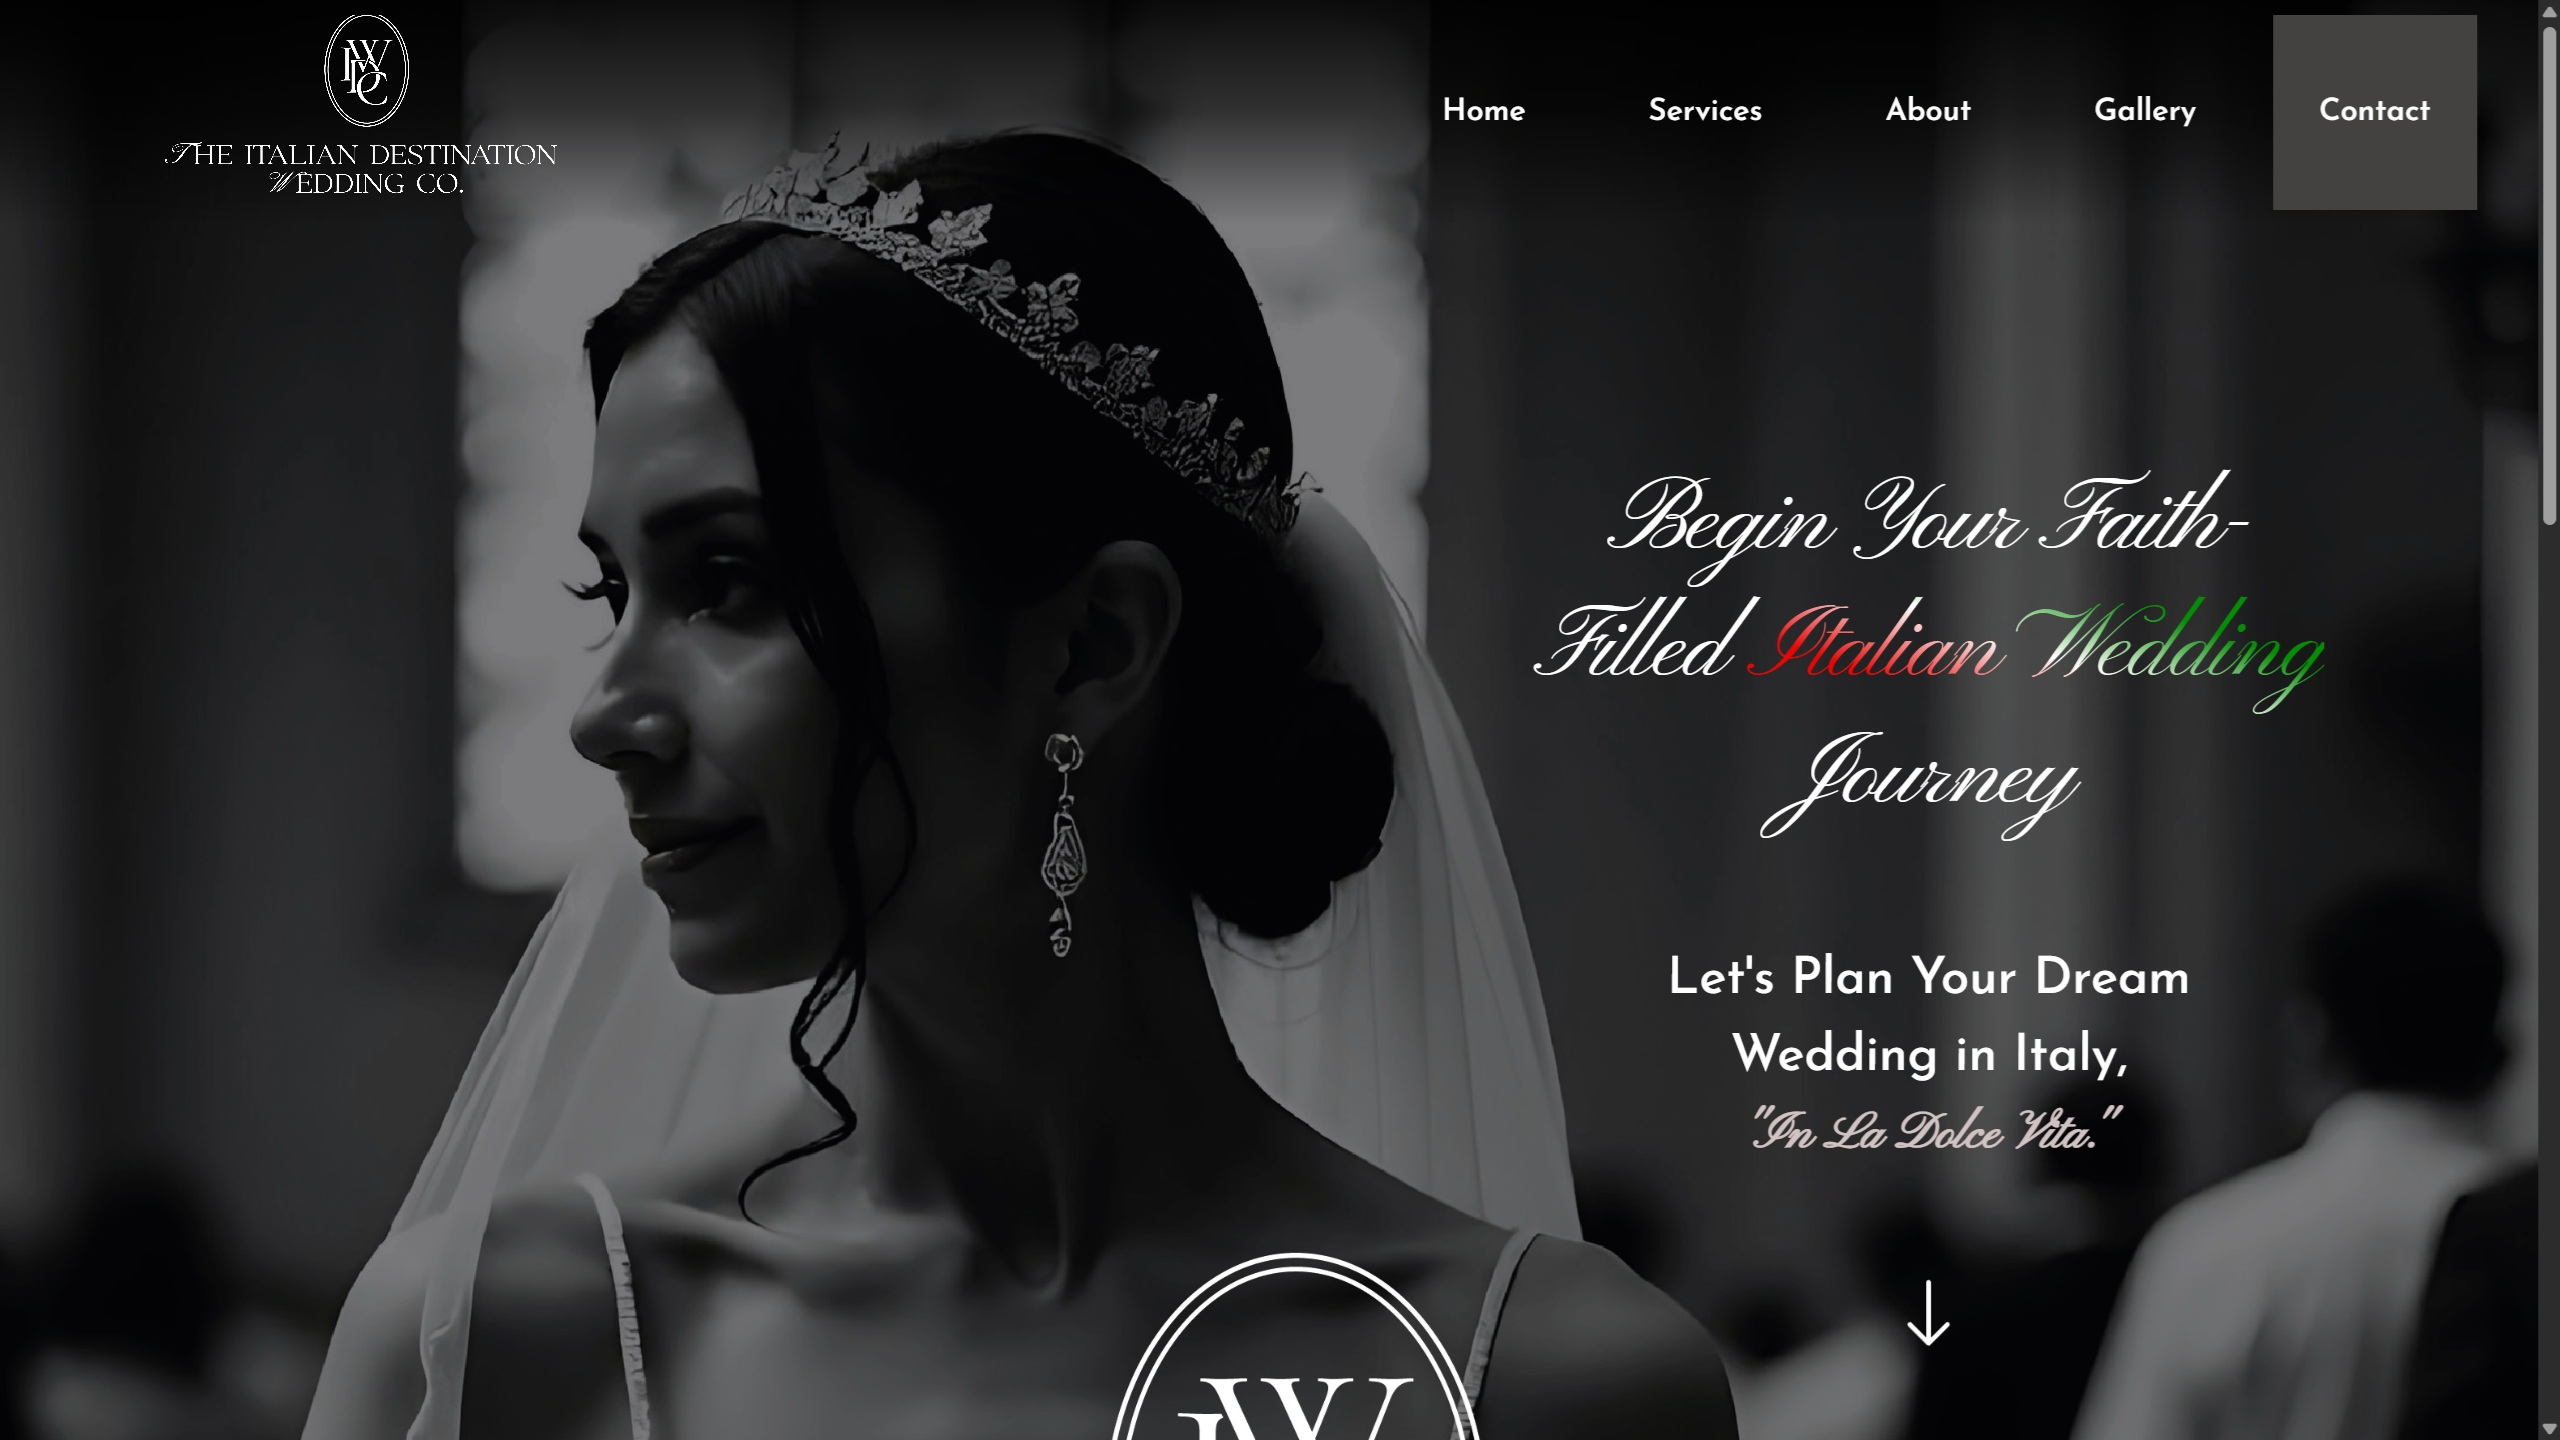
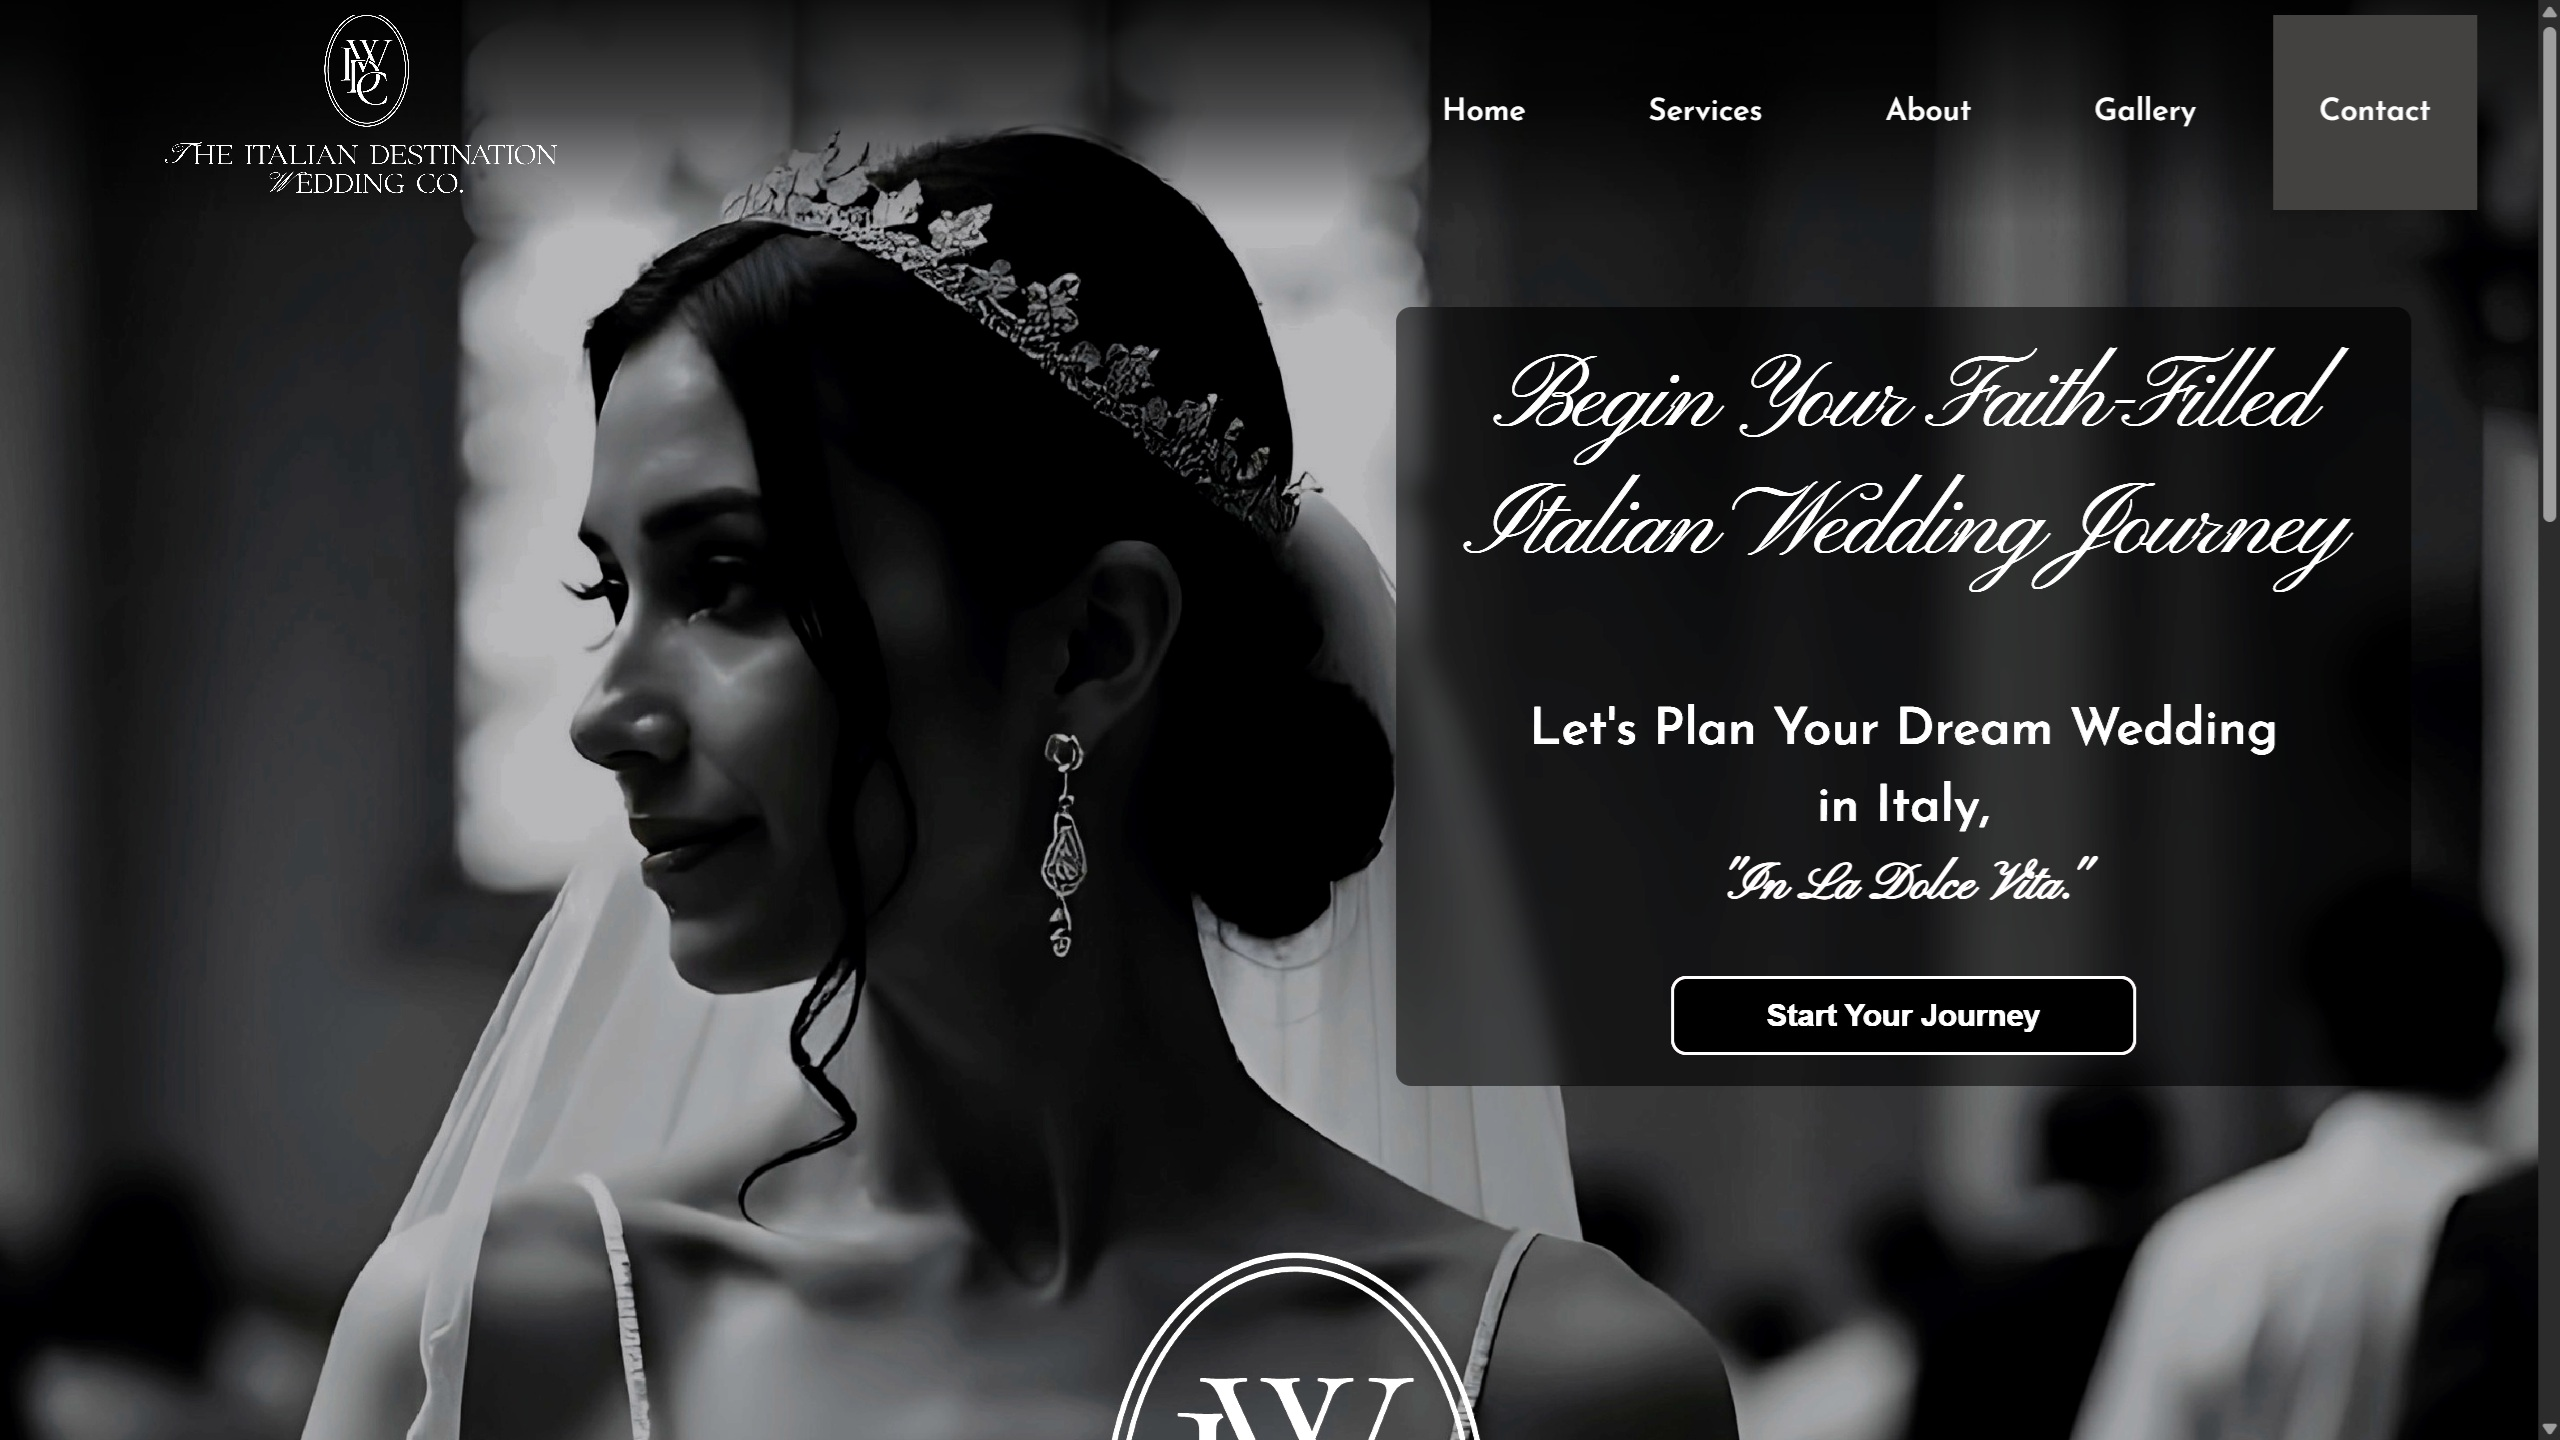
v0.37 --Added reviews section in hero. --created a couple media queries to make hero section look better on portair devices and mobile devices. --updated val's site image, and TIDWC site image. --created reviews.js file to contain reviews.

diff --git a/src/components/Hero/hero.jsx b/src/components/Hero/hero.jsx
@@ -1,13 +1,14 @@
 /* eslint-disable react-hooks/exhaustive-deps */
 import './hero.css';
 import React, { useState, useEffect } from 'react';
-
-
+import reviews from '../reviews';
 
 export default function Hero() {
   return (
     <div className="hero">
-      <RandomTitle />
+      <div className="hero-content">
+        <RandomTitle />
+      </div>
     </div>
   );
 }
@@ -17,30 +18,83 @@ const RandomTitle = () => {
     'The Bug Stops Here',
     'Clean Code, Clear Vision',
     'Building the Web, Bit by Bit',
-    "Code Without Borders",
+    'Code Without Borders',
     'Your Future Site Starts Here',
-    "Code That Clicks",
-    "Interfaces with Intent",
-    "A Better Web, One Line at a Time",
-    "Your Website, Expertly Built",
-    "Modern Sites. Clean Code. Real Results",
-    "From Idea to Online",
-    "Your Business Deserves Better Code",
-    "Functional, Beautiful, On Time"
+    'Code That Clicks',
+    'Interfaces with Intent',
+    'A Better Web, One Line at a Time',
+    'Your Website, Expertly Built',
+    'Modern Sites. Clean Code. Real Results',
+    'From Idea to Online',
+    'Your Business Deserves Better Code',
+    'Functional, Beautiful, On Time',
   ];
 
   const [title, setTitle] = useState('');
+  const [currentIndex, setCurrentIndex] = useState(0);
 
+  // Set random title on mount
   useEffect(() => {
-    // Pick a random title when the component mounts
     const randomIndex = Math.floor(Math.random() * titles.length);
     setTitle(titles[randomIndex]);
-  }, [titles]);
+  }, []);
+
+  // Auto-scroll every 5 seconds
+  useEffect(() => {
+    const interval = setInterval(() => {
+      setCurrentIndex((prev) => (prev + 1) % reviews.length);
+    }, 5000);
+
+    return () => clearInterval(interval);
+  }, []);
+
+  const handlePrev = () => {
+    setCurrentIndex((prev) => (prev - 1 + reviews.length) % reviews.length);
+  };
+
+  const handleNext = () => {
+    setCurrentIndex((prev) => (prev + 1) % reviews.length);
+  };
+
+  const { review, name } = reviews[currentIndex];
 
   return (
     <div>
       <h1>{title}</h1>
-      
+      <div className="card review-carousel">
+        <button className="nav-button left" onClick={handlePrev}>
+          ‹
+        </button>
+
+        <div className="review-content">
+          <h4>
+            <svg
+              xmlns="http://www.w3.org/2000/svg"
+              fill="currentColor"
+              class="bi bi-quote quote-icon"
+              viewBox="0 0 16 16"
+            >
+              <path d="M12 12a1 1 0 0 0 1-1V8.558a1 1 0 0 0-1-1h-1.388q0-.527.062-1.054.093-.558.31-.992t.559-.683q.34-.279.868-.279V3q-.868 0-1.52.372a3.3 3.3 0 0 0-1.085.992 4.9 4.9 0 0 0-.62 1.458A7.7 7.7 0 0 0 9 7.558V11a1 1 0 0 0 1 1zm-6 0a1 1 0 0 0 1-1V8.558a1 1 0 0 0-1-1H4.612q0-.527.062-1.054.094-.558.31-.992.217-.434.559-.683.34-.279.868-.279V3q-.868 0-1.52.372a3.3 3.3 0 0 0-1.085.992 4.9 4.9 0 0 0-.62 1.458A7.7 7.7 0 0 0 3 7.558V11a1 1 0 0 0 1 1z" />
+            </svg>
+
+            {review}
+
+            <svg
+              xmlns="http://www.w3.org/2000/svg"
+              fill="currentColor"
+              className="bi bi-quote flip quote-icon"
+              viewBox="0 0 16 16"
+            >
+              <path d="M12 12a1 1 0 0 0 1-1V8.558a1 1 0 0 0-1-1h-1.388q0-.527.062-1.054.093-.558.31-.992t.559-.683q.34-.279.868-.279V3q-.868 0-1.52.372a3.3 3.3 0 0 0-1.085.992 4.9 4.9 0 0 0-.62 1.458A7.7 7.7 0 0 0 9 7.558V11a1 1 0 0 0 1 1zm-6 0a1 1 0 0 0 1-1V8.558a1 1 0 0 0-1-1H4.612q0-.527.062-1.054.094-.558.31-.992.217-.434.559-.683.34-.279.868-.279V3q-.868 0-1.52.372a3.3 3.3 0 0 0-1.085.992 4.9 4.9 0 0 0-.62 1.458A7.7 7.7 0 0 0 3 7.558V11a1 1 0 0 0 1 1z" />
+            </svg>
+          </h4>
+          <h5>--{name}</h5>
+        </div>
+
+        <button className="nav-button right" onClick={handleNext}>
+          ›
+        </button>
+      </div>
     </div>
   );
 };

diff --git a/src/components/Hero/hero.css b/src/components/Hero/hero.css
@@ -1,34 +1,135 @@
 .hero {
   background: url('../../assets/pics/NYC-Skyline2.jpg');
   background-size: cover;
-  background-position: center top;
+  background-position: center;
   background-repeat: no-repeat;
   filter: brightness(0.8);
-  min-height: 100vh;
-  display: flex;
+  height: 120vh;
+  max-height: 120vh;
+  width: 100%;
+  
   justify-content: center;
   align-items: center;
   text-align: center;
-  height: clamp(25vh, 50vh, 60vh);
 
 }
 
 .hero h1 {
-  position: relative;
+  position: absolute;
+  top: 600px;
+  left: 50%;
+  transform: translateX(-50%);
   font-weight: 600;
-  bottom: -150px;
+  width: 100%;
   font-size: clamp(2rem, 6vw, 5rem);
   color: transparent;
   background-clip: text;
-  background-image: linear-gradient( rgb(221, 228, 232), rgba(255, 255, 255,0.9), rgba(196, 225, 246, 0.8));
+  background-image: linear-gradient(
+    rgb(221, 228, 232),
+    rgba(255, 255, 255, 0.9),
+    rgba(196, 225, 246, 0.8)
+  );
   letter-spacing: -4px;
   text-shadow: 4px 3px 1px rgb(6, 19, 93);
+  margin: 0;
+  z-index: 1;
 }
 
-@media (max-width: 768px) {
+
+.hero-content {
+  display: flex;
+  flex-direction: column;
+  align-items: center;
+  width: 100%;
+  padding-top: 750px; 
+}
+
+
+.hero .card {
+  padding: 1em;
+  border-radius: 10px;
+  background-image: linear-gradient(
+    45deg,
+    rgba(154, 154, 154, 0.2),
+    rgba(224, 224, 224, 0.5),
+    rgba(126, 126, 126, 0.2)
+  );
+  box-shadow: 2px 2px 5px rgba(0, 0, 0, 0.4),
+    -2px -2px 5px rgba(165, 165, 165, 0.4);
+  backdrop-filter: blur(8px);
+  -webkit-backdrop-filter: blur(8px);
+  width: 100%;
+  transition: height 0.3s ease;
+}
+
+.review-carousel {
+  display: flex;
+  align-items: center;
+  justify-content: center;
+  position: relative;
+  max-width: 85%;
+  margin: auto;
+  padding: 1rem;
+  text-align: center;
+}
+
+.review-content {
+  flex: 1;
+  line-height: 2;
+  padding: 0 2rem;
+}
+
+.nav-button {
+  background: none;
+  border: none;
+  font-size: 2rem;
+  cursor: pointer;
+  color: inherit;
+  padding: 0 1rem;
+  transition: color 0.3s;
+}
+
+.nav-button:hover {
+  color: #007bff;
+}
+
+.quote-icon {
+  width: clamp(1em, 2.4vw, 1.4em);
+  height: clamp(1em, 2.4vw, 1.4em);
+}
+
+.flip {
+  transform: rotate(180deg);
+}
+
+@media (orientation: portrait) {
+  .hero {
+    height: 80vh;
+  }
   .hero h1 {
     text-shadow: 2px 2px 1px rgb(6, 19, 93);
     letter-spacing: -2px;
+  }
+  .hero .card {
+    width: 85%;
+  }
+}
+@media (max-width: 1400px) {
+  .hero h1 {
+    top: 50vh;
+  }
 
+  .hero-content {
+    padding-top: 55vh;
+  }
+}
+
+@media (max-width: 600px) {
+    .hero h1 {
+    top: 15vh;
+  }
+
+  .hero-content {
+    padding-top: 25vh;
   }
 }

diff --git a/src/components/reviews.js b/src/components/reviews.js
@@ -1,0 +1,14 @@
+const reviews = [
+  {
+    name: 'theitaliandestinationweddingco',
+    review:
+      'Probably one of the best! Very patient listens to your vision and offers great solutions. I highly recommend',
+  },
+  {
+    name: 'Caffé e Particelle',
+    review:
+      "Christopher created my italian website! It's awesome! He is professional, down to earth, polite, accurate and passionate about his job. He is always precise and concerns about the client's needs. I definitely recommend his services for your company, personal website or any other needs. This guy deserves the gold! Hard work pays off!",
+  },
+];
+
+export default reviews;

diff --git a/src/components/about/about.css b/src/components/about/about.css
@@ -15,7 +15,7 @@
   width: 75%;
   position: relative;
   top: -20px;
-  border-radius: 7px;
+  border-radius: 10px;
   justify-content: center;
   align-items: center;
   background-image: linear-gradient( 45deg, rgba(154, 154, 154, 0.2), rgba(224, 224, 224, 0.5), rgba(126, 126, 126, 0.2));
